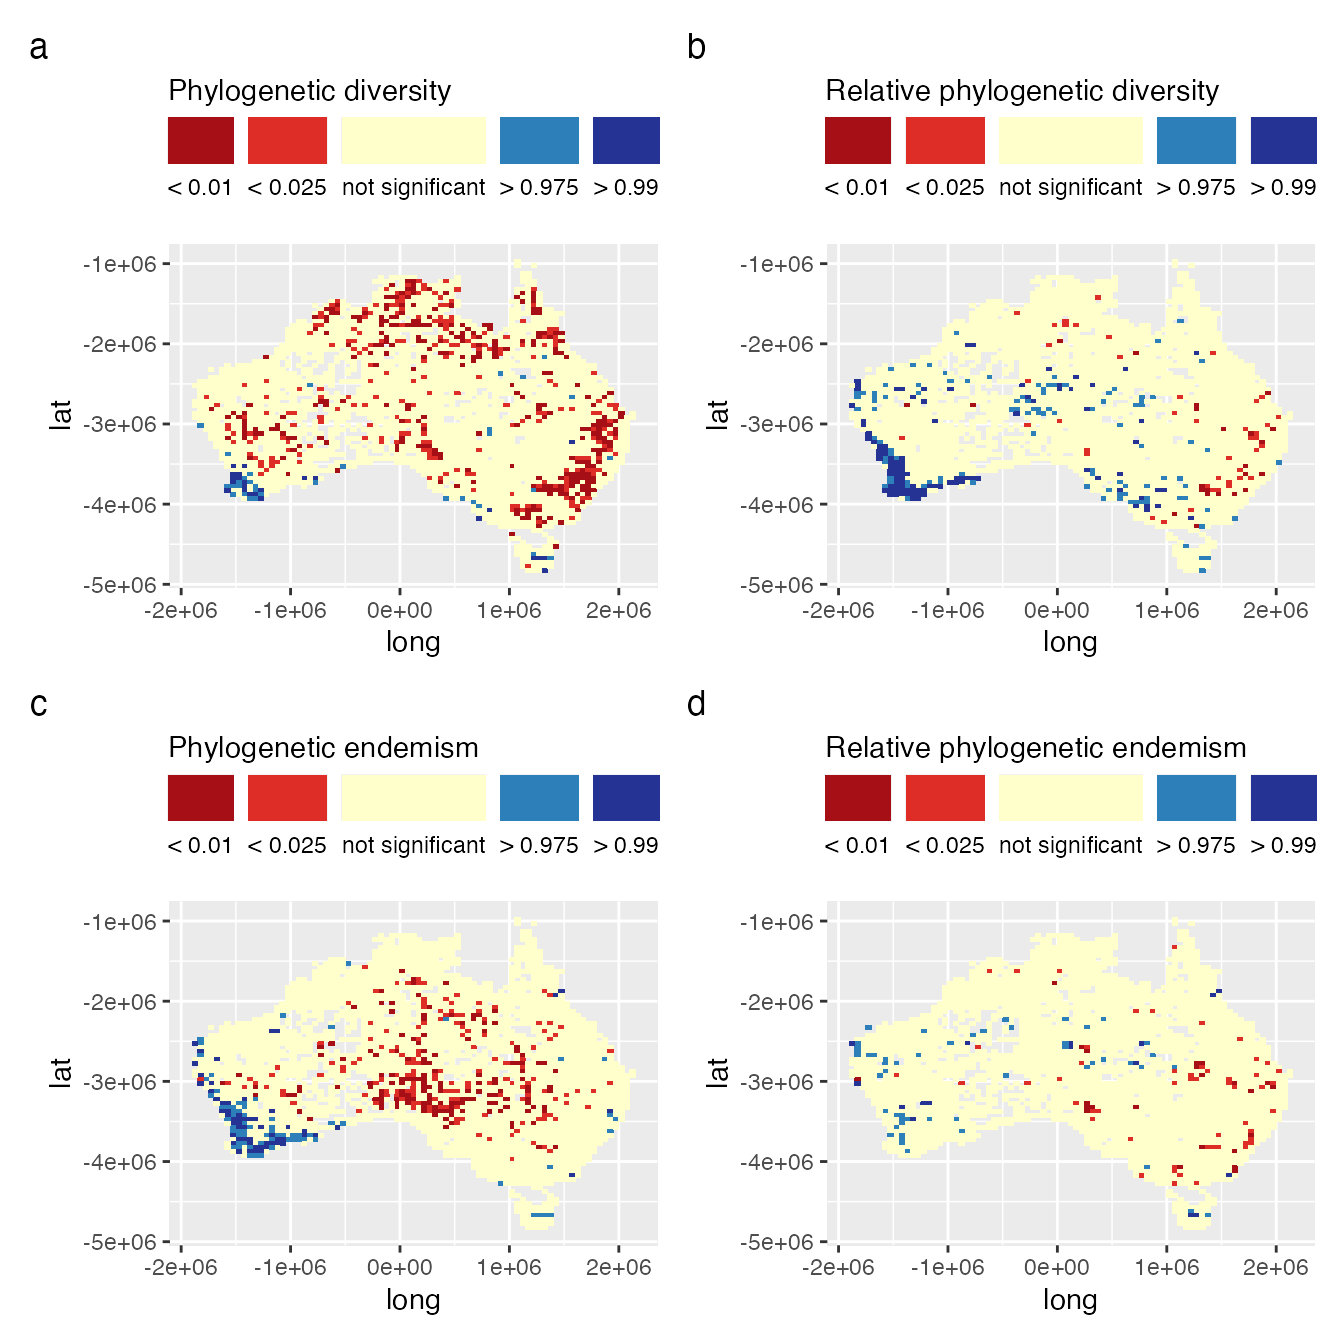
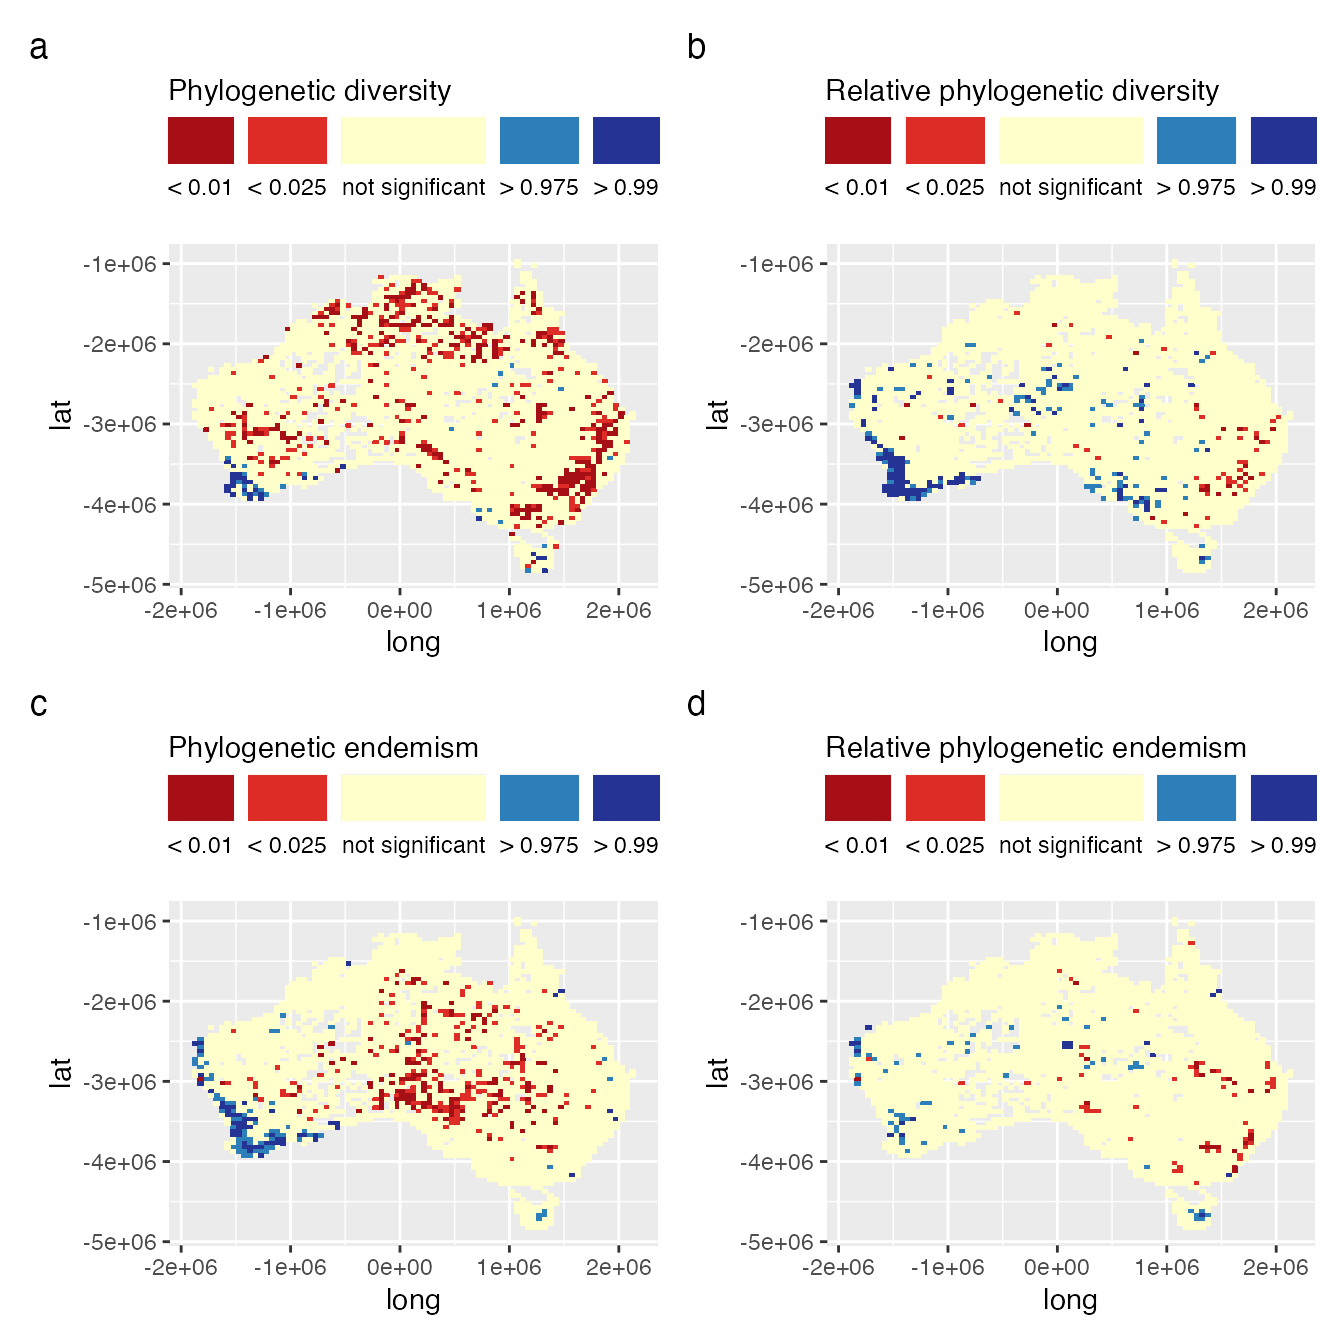
Built site for canaper: 0.0.0.9000@65f9b81

diff --git a/index.html b/index.html
@@ -92,6 +92,126 @@
 <code class="sourceCode R"><span class="co"># install.packages("remotes")</span>
 <span class="fu">remotes</span><span class="fu">::</span><span class="fu"><a href="https://remotes.r-lib.org/reference/install_github.html">install_github</a></span><span class="op">(</span><span class="st">"joelnitta/canaper"</span><span class="op">)</span></code></pre></div>
 </div>
+<div id="example-usage" class="section level2">
+<h2 class="hasAnchor">
+<a href="#example-usage" class="anchor"></a>Example usage</h2>
+<p>These examples will use the dataset included with the <code>picante</code> package.</p>
+<div class="sourceCode" id="cb2"><pre class="downlit sourceCode r">
+<code class="sourceCode R"><span class="kw"><a href="https://rdrr.io/r/base/library.html">library</a></span><span class="op">(</span><span class="va"><a href="https://github.com/joelnitta/canaper">canaper</a></span><span class="op">)</span>
+<span class="kw"><a href="https://rdrr.io/r/base/library.html">library</a></span><span class="op">(</span><span class="va">picante</span><span class="op">)</span>
+<span class="co">#&gt; Loading required package: ape</span>
+<span class="co">#&gt; Loading required package: vegan</span>
+<span class="co">#&gt; Loading required package: permute</span>
+<span class="co">#&gt; Loading required package: lattice</span>
+<span class="co">#&gt; This is vegan 2.5-7</span>
+<span class="co">#&gt; Loading required package: nlme</span>
+
+<span class="fu"><a href="https://rdrr.io/r/utils/data.html">data</a></span><span class="op">(</span><span class="va">phylocom</span><span class="op">)</span>
+
+<span class="co"># Example community matrix including 4 "clumped" communities, </span>
+<span class="co"># one "even" community, and one "random" community</span>
+<span class="va">phylocom</span><span class="op">$</span><span class="va">sample</span>
+<span class="co">#&gt;         sp1 sp10 sp11 sp12 sp13 sp14 sp15 sp17 sp18 sp19 sp2 sp20 sp21 sp22</span>
+<span class="co">#&gt; clump1    1    0    0    0    0    0    0    0    0    0   1    0    0    0</span>
+<span class="co">#&gt; clump2a   1    2    2    2    0    0    0    0    0    0   1    0    0    0</span>
+<span class="co">#&gt; clump2b   1    0    0    0    0    0    0    2    2    2   1    2    0    0</span>
+<span class="co">#&gt; clump4    1    1    0    0    0    0    0    2    2    0   1    0    0    0</span>
+<span class="co">#&gt; even      1    0    0    0    1    0    0    1    0    0   0    0    1    0</span>
+<span class="co">#&gt; random    0    0    0    1    0    4    2    3    0    0   1    0    0    1</span>
+<span class="co">#&gt;         sp24 sp25 sp26 sp29 sp3 sp4 sp5 sp6 sp7 sp8 sp9</span>
+<span class="co">#&gt; clump1     0    0    0    0   1   1   1   1   1   1   0</span>
+<span class="co">#&gt; clump2a    0    0    0    0   1   1   0   0   0   0   2</span>
+<span class="co">#&gt; clump2b    0    0    0    0   1   1   0   0   0   0   0</span>
+<span class="co">#&gt; clump4     0    2    2    0   0   0   0   0   0   0   1</span>
+<span class="co">#&gt; even       0    1    0    1   0   0   1   0   0   0   1</span>
+<span class="co">#&gt; random     2    0    0    0   0   0   2   0   0   0   0</span>
+
+<span class="co"># Example phylogeny</span>
+<span class="va">phylocom</span><span class="op">$</span><span class="va">phy</span>
+<span class="co">#&gt; </span>
+<span class="co">#&gt; Phylogenetic tree with 32 tips and 31 internal nodes.</span>
+<span class="co">#&gt; </span>
+<span class="co">#&gt; Tip labels:</span>
+<span class="co">#&gt;   sp1, sp2, sp3, sp4, sp5, sp6, ...</span>
+<span class="co">#&gt; Node labels:</span>
+<span class="co">#&gt;   A, B, C, D, E, F, ...</span>
+<span class="co">#&gt; </span>
+<span class="co">#&gt; Rooted; includes branch lengths.</span></code></pre></div>
+<p>The main “workhorse” function of <code>canaper</code> is <code><a href="reference/cpr_rand_test.html">cpr_rand_test()</a></code>, which conducts a randomization test to determine if observed values of phylogenetic diversity (PD) and phylogenetic endemism (PE) are significantly different from random. It also calculates the same values on an alternative phylogeny where all branch lengths have been set equal (alternative PD, alternative PE) as well as the ratio of the original value to the alternative value (relative PD, relative PE).</p>
+<div class="sourceCode" id="cb3"><pre class="downlit sourceCode r">
+<code class="sourceCode R"><span class="va">rand_test_results</span> <span class="op">&lt;-</span> <span class="fu"><a href="reference/cpr_rand_test.html">cpr_rand_test</a></span><span class="op">(</span><span class="va">phylocom</span><span class="op">$</span><span class="va">sample</span>, <span class="va">phylocom</span><span class="op">$</span><span class="va">phy</span><span class="op">)</span>
+<span class="co">#&gt; [1] "Dropping tips from the tree because they are not present in the community data:"</span>
+<span class="co">#&gt; [1] "sp16" "sp23" "sp27" "sp28" "sp30" "sp31" "sp32"</span></code></pre></div>
+<p><code>cpr_rand_test</code> produces <strong>a lot</strong> of columns (nine per metric), so let’s just look at a subset of them:</p>
+<div class="sourceCode" id="cb4"><pre class="downlit sourceCode r">
+<code class="sourceCode R"><span class="va">rand_test_results</span><span class="op">[</span>,<span class="fl">1</span><span class="op">:</span><span class="fl">9</span><span class="op">]</span>
+<span class="co">#&gt;            pd_obs pd_rand_mean pd_rand_sd  pd_obs_z pd_obs_c_upper</span>
+<span class="co">#&gt; clump1  0.3018868    0.4694340 0.03489188 -4.801896              0</span>
+<span class="co">#&gt; clump2a 0.3207547    0.4688679 0.03417284 -4.334237              0</span>
+<span class="co">#&gt; clump2b 0.3396226    0.4683019 0.03073875 -4.186223              0</span>
+<span class="co">#&gt; clump4  0.4150943    0.4656604 0.03515881 -1.438218              6</span>
+<span class="co">#&gt; even    0.5660377    0.4696226 0.03576872  2.695514            100</span>
+<span class="co">#&gt; random  0.5094340    0.4647170 0.03722303  1.201326             80</span>
+<span class="co">#&gt;         pd_obs_c_lower pd_obs_q pd_obs_p_upper pd_obs_p_lower</span>
+<span class="co">#&gt; clump1             100      100           0.00           1.00</span>
+<span class="co">#&gt; clump2a            100      100           0.00           1.00</span>
+<span class="co">#&gt; clump2b            100      100           0.00           1.00</span>
+<span class="co">#&gt; clump4              91      100           0.06           0.91</span>
+<span class="co">#&gt; even                 0      100           1.00           0.00</span>
+<span class="co">#&gt; random               4      100           0.80           0.04</span></code></pre></div>
+<p>This is a summary of the columns:</p>
+<ul>
+<li>
+<code>*_obs</code>: Observed value</li>
+<li>
+<code>*_obs_c_lower</code>: Count of times observed value was lower than random values</li>
+<li>
+<code>*_obs_c_upper</code>: Count of times observed value was higher than random values</li>
+<li>
+<code>*_obs_p_lower</code>: Percentage of times observed value was lower than random values</li>
+<li>
+<code>*_obs_p_upper</code>: Percentage of times observed value was higher than random values</li>
+<li>
+<code>*_obs_q</code>: Count of the non-NA random values used for comparison</li>
+<li>
+<code>*_obs_z</code>: Standard effect size (z-score)</li>
+<li>
+<code>*_rand_mean</code>: Mean of the random values</li>
+<li>
+<code>*_rand_sd</code>: Standard deviation of the random values</li>
+</ul>
+<p>The next step in CANAPE is to classify endemism types according to the significance of PE, alternative PE, and relative PE. This adds a column called <code>endem_type</code>.</p>
+<div class="sourceCode" id="cb5"><pre class="downlit sourceCode r">
+<code class="sourceCode R"><span class="va">canape_results</span> <span class="op">&lt;-</span> <span class="fu"><a href="reference/cpr_classify_endem.html">cpr_classify_endem</a></span><span class="op">(</span><span class="va">rand_test_results</span><span class="op">)</span>
+
+<span class="va">canape_results</span><span class="op">[</span>, <span class="st">"endem_type"</span>, drop <span class="op">=</span> <span class="cn">FALSE</span><span class="op">]</span>
+<span class="co">#&gt;              endem_type</span>
+<span class="co">#&gt; clump1  not significant</span>
+<span class="co">#&gt; clump2a not significant</span>
+<span class="co">#&gt; clump2b not significant</span>
+<span class="co">#&gt; clump4  not significant</span>
+<span class="co">#&gt; even              super</span>
+<span class="co">#&gt; random            super</span></code></pre></div>
+<p>This data set is very small, so it doesn’t include all possible endemism types. In total, they include:</p>
+<ul>
+<li>
+<code>paleo</code>: paleoendemic</li>
+<li>
+<code>neo</code>: neoendemic</li>
+<li>
+<code>not significant</code> (what it says)</li>
+<li>
+<code>mixed</code>: mixture of both paleo and neo</li>
+<li>
+<code>super</code>: mixed and highly significant (<em>p</em> &lt; 0.01)</li>
+</ul>
+<p>For a more complete example, please <a href="https://joelnitta.github.io/canaper/articles/canape.html">see the vignette</a></p>
+</div>
+<div id="references" class="section level2">
+<h2 class="hasAnchor">
+<a href="#references" class="anchor"></a>References</h2>
+<p>Mishler, B., Knerr, N., González-Orozco, C. <em>et al</em>. Phylogenetic measures of biodiversity and neo- and paleo-endemism in Australian <em>Acacia</em>. <em>Nat Commun</em> 5, 4473 (2014). <a href="https://doi.org/10.1038/ncomms5473" class="uri">https://doi.org/10.1038/ncomms5473</a></p>
+</div>
 </div>
   </div>
 

diff --git a/articles/canape.html b/articles/canape.html
@@ -179,7 +179,7 @@
 <span class="co">#&gt; [1] "Pararchidendron_pruinosum" "Paraserianthes_lophantha" </span>
 <span class="co">#&gt; [3] "saligna"                   "clunies-rossiae"</span>
 <span class="fu"><a href="https://rdrr.io/pkg/tictoc/man/tic.html">toc</a></span><span class="op">(</span><span class="op">)</span> <span class="co"># See how long it took</span>
-<span class="co">#&gt; 1126.706 sec elapsed</span></code></pre></div>
+<span class="co">#&gt; 1733.087 sec elapsed</span></code></pre></div>
 <p>If we hadn’t run it in parallel, it would have taken 4 times longer!</p>
 <p>Let’s take a peek at the output. <code><a href="../reference/cpr_rand_test.html">cpr_rand_test()</a></code> produces <strong>a lot</strong> of columns, so we’ll view this as a tibble, which prints out more nicely than a plain <code>data.frame</code>.</p>
 <div class="sourceCode" id="cb6"><pre class="downlit sourceCode r">
@@ -187,16 +187,16 @@
 <span class="co">#&gt; # A tibble: 3,037 x 55</span>
 <span class="co">#&gt;    site    pd_obs pd_rand_mean pd_rand_sd pd_obs_z pd_obs_c_upper pd_obs_c_lower</span>
 <span class="co">#&gt;    &lt;chr&gt;    &lt;dbl&gt;        &lt;dbl&gt;      &lt;dbl&gt;    &lt;dbl&gt;          &lt;dbl&gt;          &lt;dbl&gt;</span>
-<span class="co">#&gt;  1 '-1025… 0.0145       0.0225    0.00406  -1.97                3             97</span>
-<span class="co">#&gt;  2 '-1025… 0.0383       0.0503    0.00736  -1.63                6             94</span>
-<span class="co">#&gt;  3 '-1025… 0.0379       0.0377    0.00718   0.0259             52             48</span>
-<span class="co">#&gt;  4 '-1025… 0.0571       0.0606    0.00770  -0.450              37             63</span>
-<span class="co">#&gt;  5 '-1025… 0.0410       0.0405    0.00608   0.0756             56             44</span>
-<span class="co">#&gt;  6 '-1025… 0.0100       0.0101    0.00181  -0.0657             50             50</span>
-<span class="co">#&gt;  7 '-1025… 0.0188       0.0217    0.00357  -0.829              19             81</span>
-<span class="co">#&gt;  8 '-1025… 0.0435       0.0536    0.00842  -1.21               10             90</span>
-<span class="co">#&gt;  9 '-1025… 0.0111       0.0105    0.00204   0.308              71             27</span>
-<span class="co">#&gt; 10 '-1025… 0.0905       0.0872    0.0107    0.306              64             36</span>
+<span class="co">#&gt;  1 '-1025… 0.0145      0.0229     0.00410   -2.05               0            100</span>
+<span class="co">#&gt;  2 '-1025… 0.0383      0.0494     0.00648   -1.71               6             94</span>
+<span class="co">#&gt;  3 '-1025… 0.0379      0.0369     0.00587    0.176             60             40</span>
+<span class="co">#&gt;  4 '-1025… 0.0571      0.0627     0.00982   -0.566             29             71</span>
+<span class="co">#&gt;  5 '-1025… 0.0410      0.0421     0.00671   -0.166             44             56</span>
+<span class="co">#&gt;  6 '-1025… 0.0100      0.0103     0.00198   -0.172             42             57</span>
+<span class="co">#&gt;  7 '-1025… 0.0188      0.0221     0.00390   -0.847             19             81</span>
+<span class="co">#&gt;  8 '-1025… 0.0435      0.0542     0.00826   -1.30               8             92</span>
+<span class="co">#&gt;  9 '-1025… 0.0111      0.00977    0.00126    1.07              92              8</span>
+<span class="co">#&gt; 10 '-1025… 0.0905      0.0881     0.0105     0.231             63             37</span>
 <span class="co">#&gt; # … with 3,027 more rows, and 48 more variables: pd_obs_q &lt;dbl&gt;,</span>
 <span class="co">#&gt; #   pd_obs_p_upper &lt;dbl&gt;, pd_obs_p_lower &lt;dbl&gt;, pd_alt_obs &lt;dbl&gt;,</span>
 <span class="co">#&gt; #   pd_alt_rand_mean &lt;dbl&gt;, pd_alt_rand_sd &lt;dbl&gt;, pd_alt_obs_z &lt;dbl&gt;,</span>
@@ -242,7 +242,7 @@
 <span class="fu"><a href="https://rdrr.io/r/base/table.html">table</a></span><span class="op">(</span><span class="va">acacia_canape</span><span class="op">$</span><span class="va">endem_type</span><span class="op">)</span>
 <span class="co">#&gt; </span>
 <span class="co">#&gt;           mixed             neo not significant           paleo           super </span>
-<span class="co">#&gt;             104              11            2752              42             128</span></code></pre></div>
+<span class="co">#&gt;              94              14            2761              47             121</span></code></pre></div>
 </div>
 <div id="classify-signficance" class="section level2">
 <h2 class="hasAnchor">
@@ -261,7 +261,7 @@
 <span class="fu"><a href="https://rdrr.io/r/base/table.html">table</a></span><span class="op">(</span><span class="va">acacia_canape</span><span class="op">$</span><span class="va">pd_signif</span><span class="op">)</span>
 <span class="co">#&gt; </span>
 <span class="co">#&gt;          &lt; 0.01         &lt; 0.025         &gt; 0.975          &gt; 0.99 not significant </span>
-<span class="co">#&gt;             290             226              33              24            2464</span></code></pre></div>
+<span class="co">#&gt;             299             223              23              28            2464</span></code></pre></div>
 </div>
 <div id="visualize-results" class="section level2">
 <h2 class="hasAnchor">
